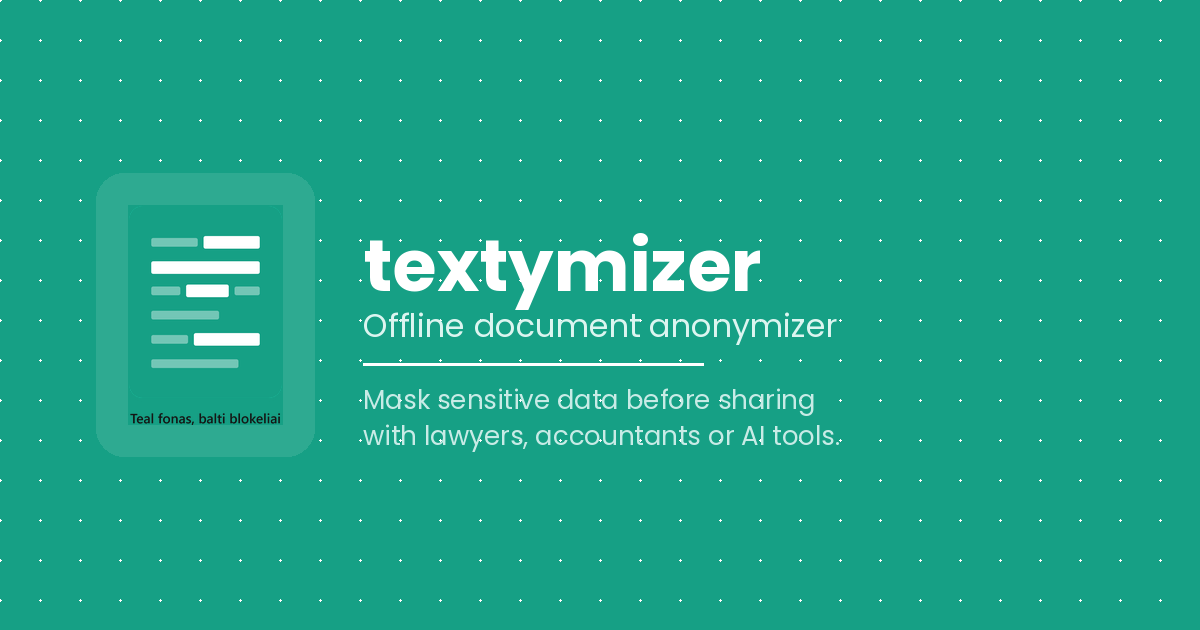
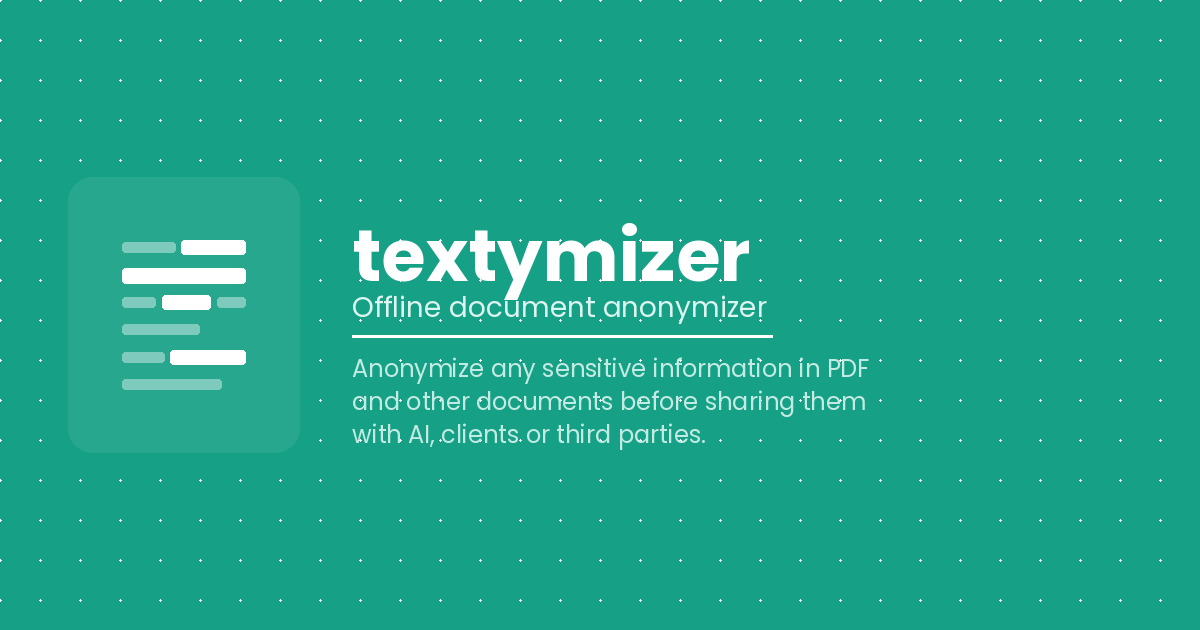
try free mygtukas, atnaujintas Seo, og-image

Changed region(s): [[0.2775, 0.3619, 0.7092, 0.5429], [0.2775, 0.573, 0.74, 0.7238], [0.0925, 0.3619, 0.2467, 0.6937]]

diff --git a/index.html b/index.html
@@ -5,16 +5,16 @@
   <meta name="viewport" content="width=device-width, initial-scale=1.0" />
 
   <!-- Primary SEO -->
-  <title>Textymizer — Offline Document Anonymizer</title>
-  <meta name="description" content="Mask your private data before sharing documents with lawyers, accountants or AI tools. Fast, simple, offline document anonymization software. Free version available." />
-  <meta name="keywords" content="document anonymizer, PDF anonymizer, redact PDF, mask sensitive data, offline anonymization, data privacy tool" />
+  <title>Textymizer — PDF Anonymizer &amp; Document Anonymization Tool</title>
+  <meta name="description" content="Anonymize PDF files and documents before sharing sensitive personal data with AI, clients or third parties. Free offline PDF anonymizer — no uploads, full control over sensitive information." />
+  <meta name="keywords" content="PDF anonymizer, document anonymization, anonymize PDF, sensitive information, sensitive data, personal data, redact PDF, mask sensitive data, offline anonymization, data privacy tool, document redaction, PDF redaction" />
   <link rel="canonical" href="https://textymizer.com/" />
 
   <!-- Open Graph (Facebook, LinkedIn, WhatsApp) -->
   <meta property="og:type"        content="website" />
   <meta property="og:url"         content="https://textymizer.com/" />
-  <meta property="og:title"       content="Textymizer — Offline Document Anonymizer" />
-  <meta property="og:description" content="Mask your private data before sharing documents with lawyers, accountants or AI tools. Fast, simple, offline document anonymization software." />
+  <meta property="og:title"       content="Textymizer — PDF Anonymizer &amp; Document Anonymization Tool" />
+  <meta property="og:description" content="Anonymize PDF files and documents before sharing sensitive personal data with AI, clients or third parties. Free offline PDF anonymizer — no uploads, full control." />
   <meta property="og:image"       content="https://textymizer.com/og-image.png" />
   <meta property="og:image:width"  content="1200" />
   <meta property="og:image:height" content="630" />
@@ -24,8 +24,8 @@
   <!-- Twitter / X Card -->
   <meta name="twitter:card"        content="summary_large_image" />
   <meta name="twitter:url"         content="https://textymizer.com/" />
-  <meta name="twitter:title"       content="Textymizer — Offline Document Anonymizer" />
-  <meta name="twitter:description" content="Mask your private data before sharing documents with lawyers, accountants or AI tools. Fast, simple, offline document anonymization software." />
+  <meta name="twitter:title"       content="Textymizer — PDF Anonymizer &amp; Document Anonymization Tool" />
+  <meta name="twitter:description" content="Anonymize PDF files and documents before sharing sensitive personal data with AI, clients or third parties. Free offline PDF anonymizer — no uploads, full control." />
   <meta name="twitter:image"       content="https://textymizer.com/og-image.png" />
 
   <!-- Schema.org Structured Data -->
@@ -35,7 +35,7 @@
     "@type": "SoftwareApplication",
     "name": "Textymizer",
     "url": "https://textymizer.com",
-    "description": "Offline document anonymization desktop application. Mask sensitive data in PDF files before sharing with lawyers, accountants or AI tools.",
+    "description": "Offline PDF anonymizer and document anonymization tool. Mask sensitive information and personal data before sharing documents with AI tools, clients, accountants or third parties.",
     "applicationCategory": "BusinessApplication",
     "operatingSystem": "Windows",
     "offers": {
@@ -45,9 +45,11 @@
       "name": "Free version"
     },
     "featureList": [
-      "PDF document anonymization",
-      "Offline processing — no data uploaded",
-      "Export to Excel",
+      "PDF anonymizer — anonymize PDF files offline",
+      "Document anonymization for sensitive information",
+      "Mask personal data and sensitive data before sharing",
+      "No document uploads — all processing done locally",
+      "Export anonymized data to Excel",
       "Any language support"
     ]
   }
@@ -115,9 +117,10 @@
       <div class="hero-inner">
         <h1>Offline document anonymizer</h1>
         <p class="hero-subtitle">
-          Mask your personal data before using AI or sharing sensitive documents<br />
-          with easy-to-use anonymization software.
+          Anonymize any sensitive information in PDF and other documents<br />
+          before sharing them with AI, clients or third parties.
         </p>
+        <button class="btn btn-primary btn-hero" id="heroDownloadBtn">Try Free Version</button>
       </div>
     </section>
 
@@ -470,8 +473,8 @@
         <div class="about-card">
           <div class="about-accent"></div>
           <div class="about-text">
-            <p>Textymizer is a lightweight document anonymization tool. It was created for everyday users, businesses, and professionals who need a fast, simple way to anonymize documents — without complicated software or AI making decisions on your behalf.</p>
-            <p>Textymizer lets you decide exactly what stays private. Select the lines or text fragments you want to mask, and create a clean, anonymized version in seconds — without ever touching your original file.</p>
+            <p>Textymizer is a lightweight document anonymization tool. It was created for everyday users, businesses, and professionals who need a fast, simple way to anonymize PDF or other documents — without complicated software or AI making decisions on your behalf.</p>
+            <p>Textymizer lets you decide exactly what data is sensitive and stays private. Select the lines or text fragments you want to mask, and create a clean, anonymized version in seconds — without ever touching your original file.</p>
             <p>Everything happens locally, on your own computer. No documents are uploaded, no data is sent anywhere. Your files never leave your device.</p>
           </div>
         </div>

diff --git a/script.js b/script.js
@@ -1,5 +1,6 @@
 const modal = document.getElementById("modal");
-const downloadBtn = document.getElementById("downloadBtn");
+const downloadBtn     = document.getElementById("downloadBtn");
+const heroDownloadBtn = document.getElementById("heroDownloadBtn");
 const confirmBtn = document.getElementById("confirmBtn");
 const cancelBtn = document.getElementById("cancelBtn");
 const cancelBtnTop = document.getElementById("cancelBtnTop");
@@ -10,10 +11,13 @@ const marketingCheckbox = document.getElementById("marketingCheckbox");
 let turnstileToken = "";
 
 // ─── OPEN MODAL ───────────────────────────────────────────────────────────────
-downloadBtn.addEventListener("click", () => {
+function openDownloadModal() {
   modal.classList.add("is-open");
   updateConfirmState();
-});
+}
+
+downloadBtn.addEventListener("click", openDownloadModal);
+if (heroDownloadBtn) heroDownloadBtn.addEventListener("click", openDownloadModal);
 
 // ─── CLOSE MODAL ─────────────────────────────────────────────────────────────
 cancelBtn.addEventListener("click", closeModal);

diff --git a/style.css b/style.css
@@ -187,6 +187,12 @@ button { font-family: inherit; }
   line-height: 1.6;
 }
 
+.btn-hero {
+  margin-top: 32px;
+  padding: 15px 36px;
+  font-size: 16px;
+}
+
 /* ─────────────────────────────────────────────────────────────────────────
    FEATURES
 ───────────────────────────────────────────────────────────────────────── */